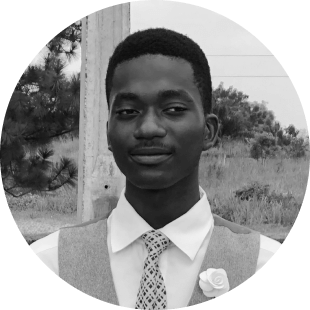
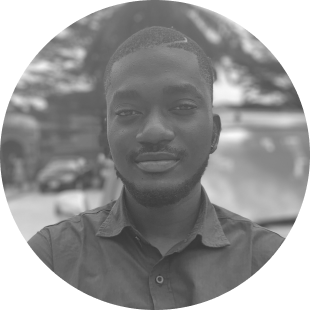
Section added on the homepage, and Profile photo updated

diff --git a/src/components/LogoComponent.js b/src/components/LogoComponent.js
@@ -8,7 +8,12 @@ import medecins from "../images/mede.png";
 import icrc from "../images/icrc.png";
 import hashvest from "../images/hash.png";
 import easme from "../images/ease.png";
+import garza from "../images/Mask Group-2.png";
+import tonye from "../images/tonye.png";
 import "./LogoComponent.css";
+import { CarouselProvider, Slider, Slide } from "pure-react-carousel";
+
+import "pure-react-carousel/dist/react-carousel.es.css";
 
 function LogoComponent() {
   return (
@@ -16,39 +21,169 @@ function LogoComponent() {
       <div>
         <h1 className="section-heading">Some Clients</h1>
       </div>
+      <div className="logo-reviews-flex">
+        <div className="lr-section-1">
+          <div className="logo-container">
+            <div className="logo-box">
+              <img src={mvx} alt="mvx-logo" className="logo-img"></img>
+            </div>
+            <div className="logo-box2">
+              <img src={hugo} alt="leeds-logo" className="logo-img"></img>
+            </div>
+            <div className="logo-box">
+              <img src={hippo} alt="payhippo-logo" className="logo-img"></img>
+            </div>
+            <div className="logo-box">
+              <img src={life} alt="easme-logo" className="logo-img"></img>
+            </div>
+            <div className="logo-box">
+              <img
+                src={hashvest}
+                alt="hashvest-logo"
+                className="logo-img"
+              ></img>
+            </div>
+          </div>
+          <div className="logo-container-2">
+            <div className="logo-box">
+              <img src={leeds} alt="hugo-logo" className="logo-img"></img>
+            </div>
+            <br></br>
+            <div className="logo-box">
+              <img src={icrc} alt="ICRC-logo" className="logo-img"></img>
+            </div>
+            <div className="logo-box">
+              <img
+                src={medecins}
+                alt="medecins-logo"
+                className="logo-img"
+              ></img>
+            </div>
+            <div className="logo-box1">
+              <img src={easme} alt="lifestore-logo" className="logo-img1"></img>
+            </div>
+          </div>
+        </div>
+        <div className="lr-section-2">
+          <div className="reviews-title">
+            <h1>Client Reviews</h1>
+          </div>
+          <div className="reviews-flex">
+            <div className="reviews-card">
+              <div className="reviews-body">
+                <p>
+                  BlueSense led an in-depth growth session with our executive
+                  team to identify practical and high-potential growth drivers
+                  for our start-up. Our team was impressed by the frameworks and
+                  recommendations and still refers to them today when crafting
+                  strategy. BlueSense is insightful and collaborative and I
+                  would highly recommend working with them.
+                </p>
+              </div>
+              <div className="reviews-img">
+                <img src={garza} alt=""></img>
+              </div>
+              <div className="reviews-info">
+                <b>Andrew Garza</b>
+                <p>Cofounder + COO Lifestores Pharmacy</p>
+              </div>
+            </div>
+            <div className="reviews-card">
+              <div className="reviews-body">
+                <p>
+                  We’ve had over 5 learning + advisory sessions with BlueSense
+                  and each time, my team and I leave with a renewed sense of
+                  purpose and clarity. Most recently, we had a eureka moment
+                  during a leadership session with BlueSense that changed our
+                  mission and the trajectory of our company for the better.
+                  They’re exceptional with their work.
+                </p>
+              </div>
+              <div className="reviews-img">
+                <img src={tonye} alt=""></img>
+              </div>
+              <div className="reviews-info">
+                <b>Tonye Membere-Otaji</b>
+                <p>Founder MVX Trader </p>
+              </div>
+            </div>
+          </div>
+        </div>
+      </div>
 
-      <div className="logo-container">
-        <div className="logo-box">
-          <img src={mvx} alt="mvx-logo" className="logo-img"></img>
-        </div>
-        <div className="logo-box2">
-          <img src={hugo} alt="leeds-logo" className="logo-img"></img>
-        </div>
-        <div className="logo-box">
-          <img src={hippo} alt="payhippo-logo" className="logo-img"></img>
-        </div>
-        <div className="logo-box">
-          <img src={life} alt="easme-logo" className="logo-img"></img>
-        </div>
-        <div className="logo-box">
-          <img src={hashvest} alt="hashvest-logo" className="logo-img"></img>
-        </div>
+      {/*
+      <div className="client-reviews-section">
+        <CarouselProvider
+          className="case-slide"
+          naturalSlideWidth={100}
+          isIntrinsicHeight={true}
+          dragEnabled={true}
+          touchEnabled={true}
+          totalSlides={2}
+          interval={5000}
+          isPlaying={true}
+        >
+          <Slider>
+            <Slide index={0}>
+              <div className="reviews-section-flex">
+                <div className="section-1">
+                  <div className="reviews-section-img">
+                    <img src={tonye} alt=""></img>
+                  </div>
+                  <div className="reviews-section-info">
+                    <b>Tonye Membere-Otaji</b>
+                    <p>Founder MVX Trader </p>
+                  </div>
+                </div>
+                <div className="section-2">
+                  <div className="reviews-section-body">
+                    <p>
+                      We’ve had over 5 learning + advisory sessions with
+                      BlueSense and each time, my team and I leave with a
+                      renewed sense of purpose and clarity. Most recently, we
+                      had a eureka moment during a leadership session with
+                      BlueSense that changed our mission and the trajectory of
+                      our company for the better. They’re exceptional with their
+                      work.
+                    </p>
+                  </div>
+                </div>
+              </div>
+            </Slide>
+
+            <Slide index={1}>
+              <div className="reviews-section-flex">
+                <div className="section-1">
+                  <div className="reviews-section-img">
+                    <img src={garza} alt=""></img>
+                  </div>
+                  <div className="reviews-section-info">
+                    <b>Andrew Garza</b>
+                    <p>
+                      Cofounder + COO <br />
+                      Lifestores Pharmacy
+                    </p>
+                  </div>
+                </div>
+                <div className="section-2">
+                  <div className="reviews-section-body">
+                    <p>
+                      BlueSense led an in-depth growth session with our
+                      executive team to identify practical and high-potential
+                      growth drivers for our start-up. Our team was impressed by
+                      the frameworks and recommendations and still refers to
+                      them today when crafting strategy. BlueSense is insightful
+                      and collaborative and I would highly recommend working
+                      with them.
+                    </p>
+                  </div>
+                </div>
+              </div>
+            </Slide>
+          </Slider>
+        </CarouselProvider>
       </div>
-      <div className="logo-container-2">
-        <div className="logo-box">
-          <img src={leeds} alt="hugo-logo" className="logo-img"></img>
-        </div>
-        <br></br>
-        <div className="logo-box">
-          <img src={icrc} alt="ICRC-logo" className="logo-img"></img>
-        </div>
-        <div className="logo-box">
-          <img src={medecins} alt="medecins-logo" className="logo-img"></img>
-        </div>
-        <div className="logo-box1">
-          <img src={easme} alt="lifestore-logo" className="logo-img1"></img>
-        </div>
-      </div>
+  */}
     </>
   );
 }

diff --git a/src/components/LogoComponent.css b/src/components/LogoComponent.css
@@ -7,20 +7,18 @@
 }
 
 .logo-container {
-  padding-left: 50px;
+  padding-left: 65px;
   width: 100%;
   height: auto;
   display: flex;
-  justify-content: center;
   object-fit: contain;
 }
 
 .logo-container-2 {
-  padding-left: 50px;
+  padding-left: 65px;
   width: 100%;
   height: auto;
   display: flex;
-  justify-content: center;
 }
 
 .logo-img {
@@ -69,9 +67,139 @@
 .logo-img11:hover {
   filter: grayscale(0%);
 }
+.logo-reviews-flex {
+  display: flex;
+  width: 100%;
+}
+.lr-section-1 {
+  flex: 1;
+  width: 100%;
+}
+.lr-section-2 {
+  flex: 1;
+  width: 100%;
+}
+/*---------------------------------------reviews-----------------------*/
+.reviews-title{
+  margin-top: -50px;
+  margin-bottom: 20px;
+}
+.reviews-title h1{
+  font-family: Poppins;
+  color: rgba(102, 102, 102, 0.726);
+  font-weight: 600;
+  font-size: 18px;
+}
+.reviews-flex {
+  display: flex;
+  gap: 20px;
+  transition: 0.3s;
+  padding-right: 50px;
+}
+.reviews-card {
+  width: 30%;
+  border-radius: 16px;
+  background-color: #fafafb;
+  box-shadow: 1px 4px 8px rgba(0, 0, 0, 0.15);
+  text-align: left;
+  padding: 20px 25px 20px 25px;
+  transition: 0.3s;
+}
+.reviews-img img {
+  padding-top: 20px;
+  width: 15%;
+}
+.reviews-info b {
+  color: rgba(102, 102, 102, 0.726);
+  font-size: 8px;
+  font-family: Poppins;
+  font-weight: 600;
+}
+.reviews-info p {
+  font-size: 8px;
+  font-family: Poppins;
+  color: rgba(102, 102, 102, 0.726);
+}
+.reviews-body p {
+  color: rgba(102, 102, 102, 0.726);
+  margin-top: 10px;
+  font-size: 8px;
+  font-family: Gill Sans MT, GillSans-Light, Gill Sans Light, sans-serif;
+}
+.reviews-card:hover {
+  transform: translateY(-1px);
+  box-shadow: 0 40px 70px rgba(0, 0, 0, 0.1);
+  color: rgba(102, 102, 102, 0.726);
+}
+
+@media (max-width: 1350px) {
+  .reviews-card {
+    width: 40%;
+  }
+}
+@media (max-width: 1194px) {
+  .reviews-card {
+    width: 48%;
+  }
+}
+@media (max-width: 1094px) {
+  .reviews-card {
+    width: 58%;
+  }
+}
+@media (max-width: 1055px) {
+  .logo-reviews-flex {
+   flex-direction: column;
+  }
+  .reviews-card {
+    width: 27%;
+  }
+  .reviews-flex{
+    padding-left: 50px;
+  }
+  .reviews-title{
+    margin-top: 25px;
+    margin-left: 50px;
+}
+.reviews-title h1{
+    font-family: Poppins;
+    color: rgba(102, 102, 102, 0.726);
+    font-weight: 600;
+}
+}
+@media (max-width: 800px) {
+  .reviews-card {
+    width: 35%;
+  }
+}
+@media (max-width: 754px) {
+  .reviews-title h1 {
+    font-size: 25px;
+  }
+}
+@media (max-width: 660px) {
+  .logo-reviews-flex {
+    flex-direction: column;
+  }
+  .reviews-card {
+    width: 50%;
+  }
+}
+@media (max-width: 420px) {
+  .reviews-flex {
+    flex-direction: column;
+  }
+  .reviews-card {
+    width: 80%;
+  }
+}
+
 @media (max-width: 754px) {
   .section-heading {
     font-size: 25px;
+  }
+  .reviews-title h1{
+    font-size: 18px;
   }
 }
 

diff --git a/src/components/Reviews.js b/src/components/Reviews.js
@@ -9,7 +9,7 @@ function Reviews() {
       <div>
         <div className="reviews-container">
           <div className="reviews-title">
-            <h1>Testimonials</h1>
+            <h1>Client Reviews</h1>
           </div>
           <div className="reviews-flex">
             <div className="reviews-card">
@@ -31,7 +31,6 @@ function Reviews() {
                 </p>
               </div>
             </div>
-
             <div className="reviews-card">
               <div className="reviews-img">
                 <img src={tonye} alt=""></img>

diff --git a/src/App.css b/src/App.css
@@ -2,5 +2,4 @@
   box-sizing: border-box;
   margin: 0;
   padding: 0;
-  font-family: "PT Sans", sans-serif;
 }
